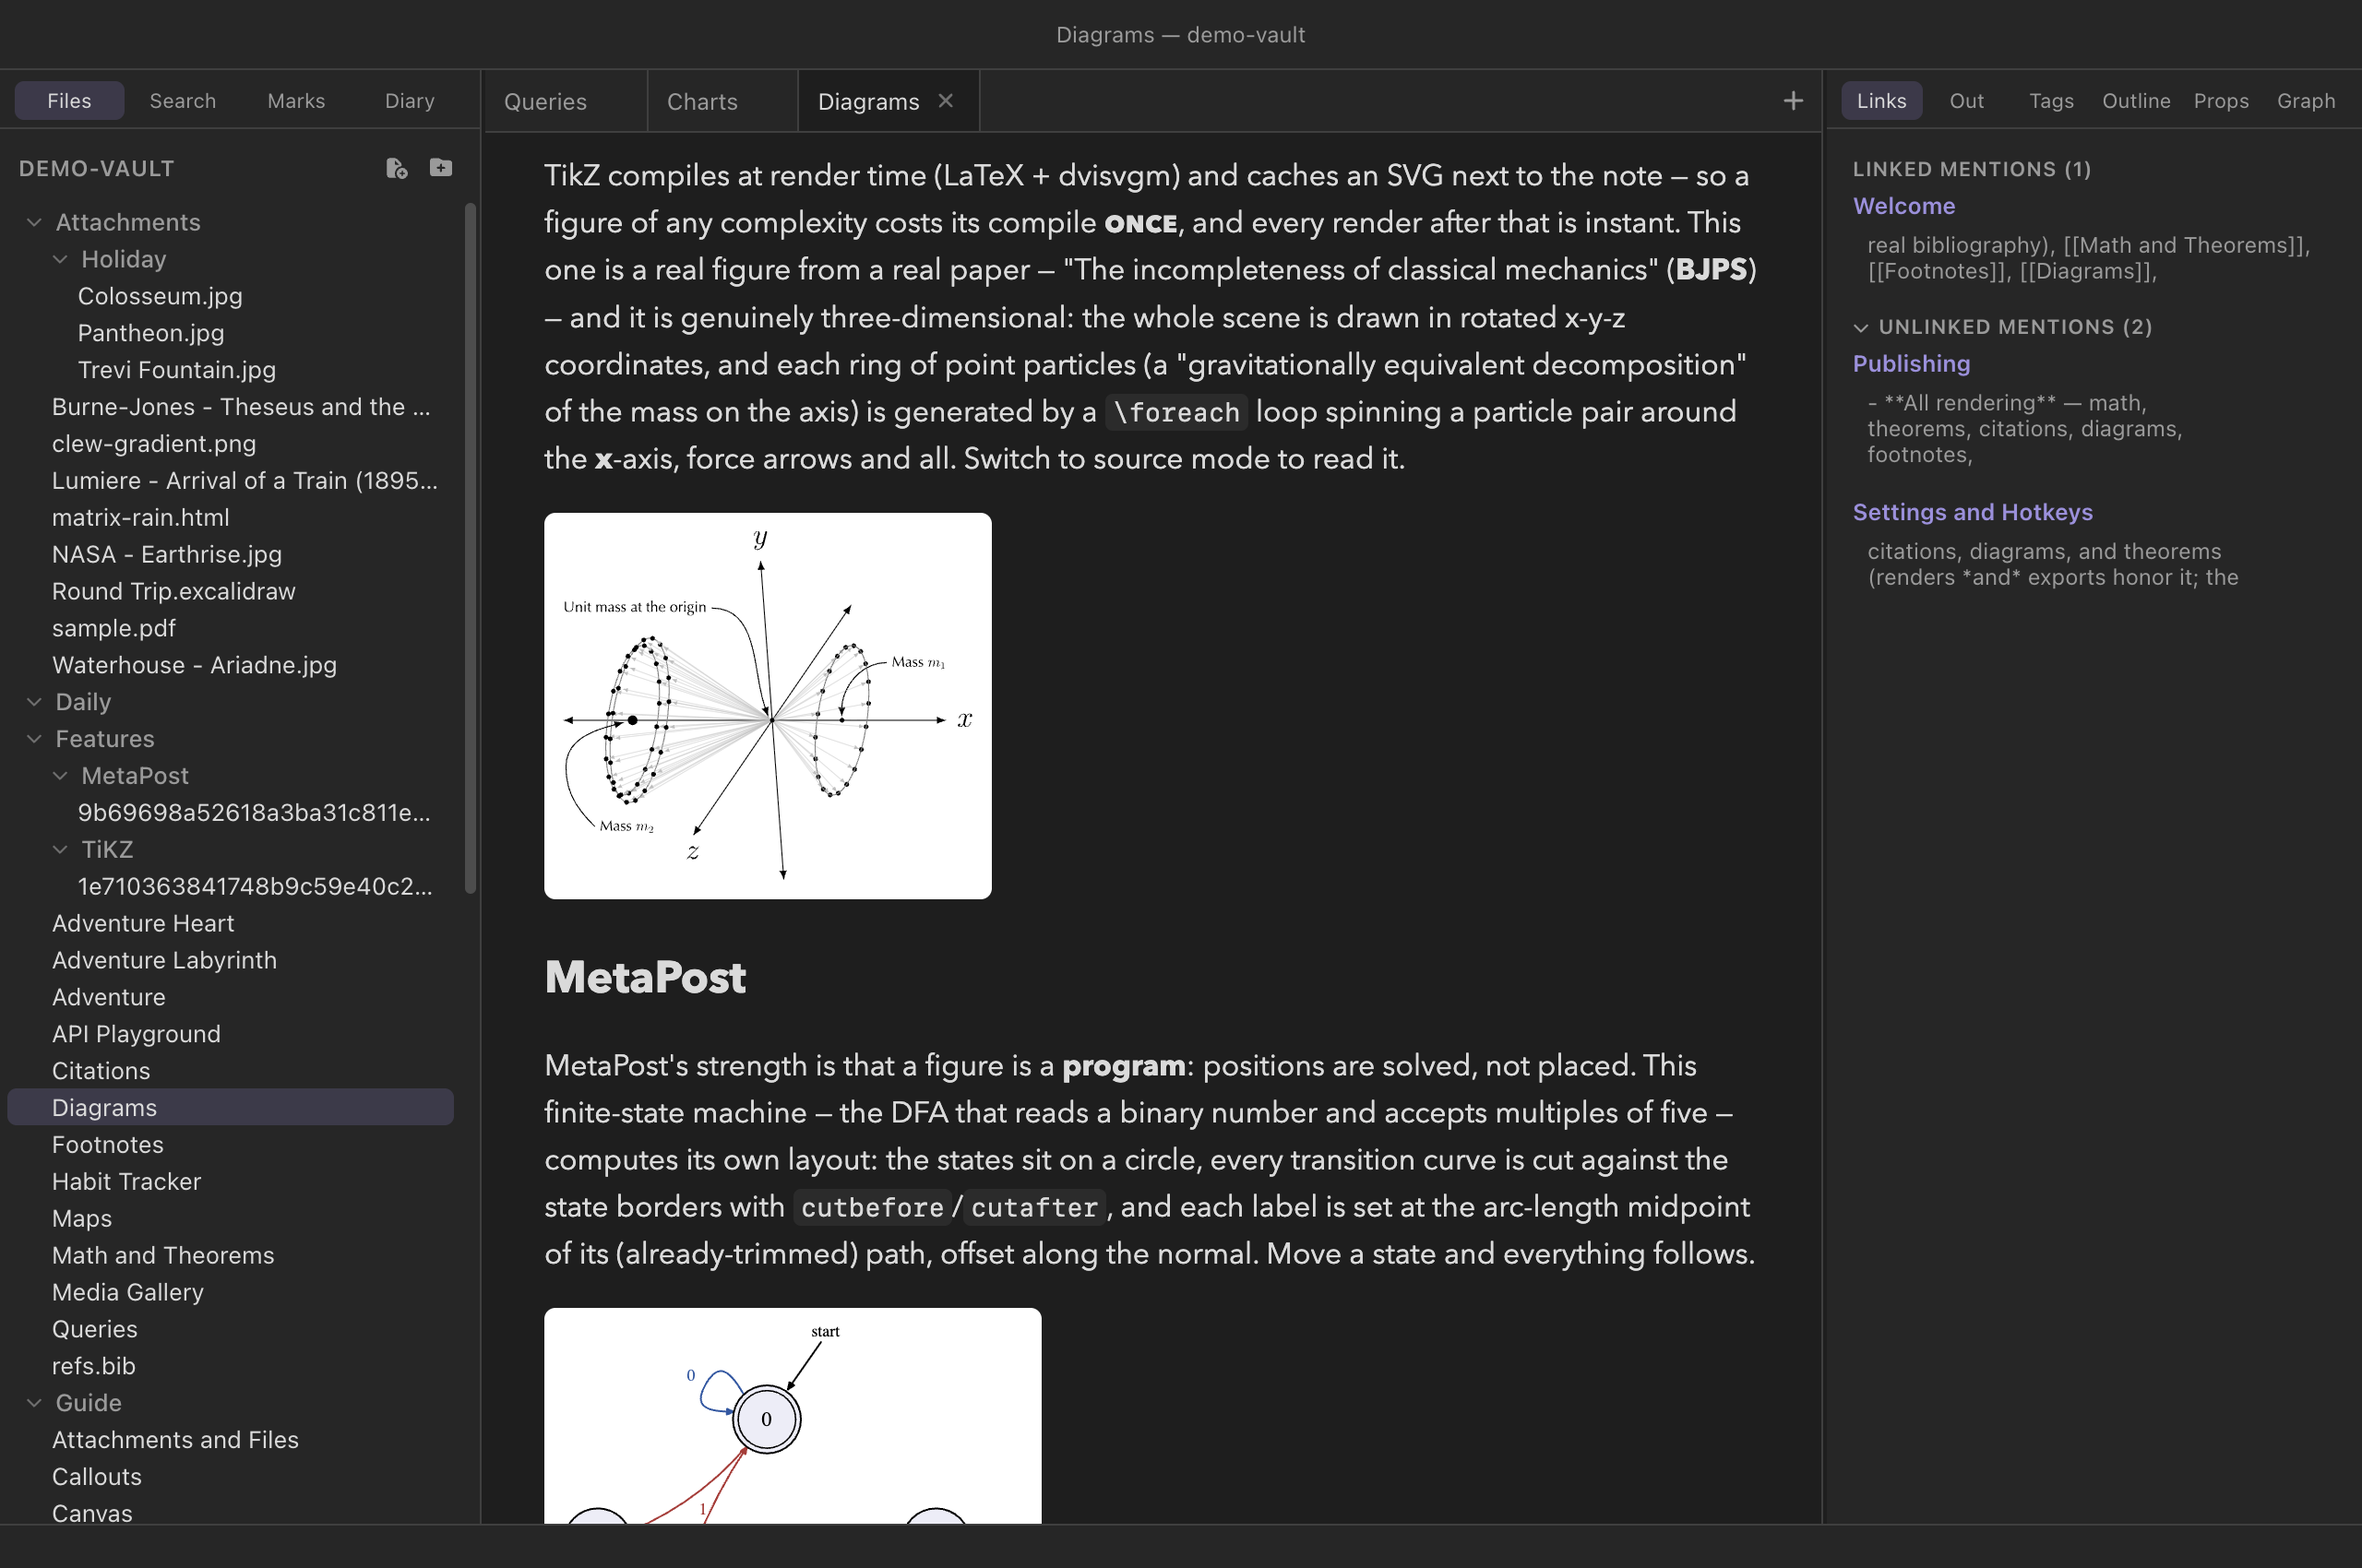
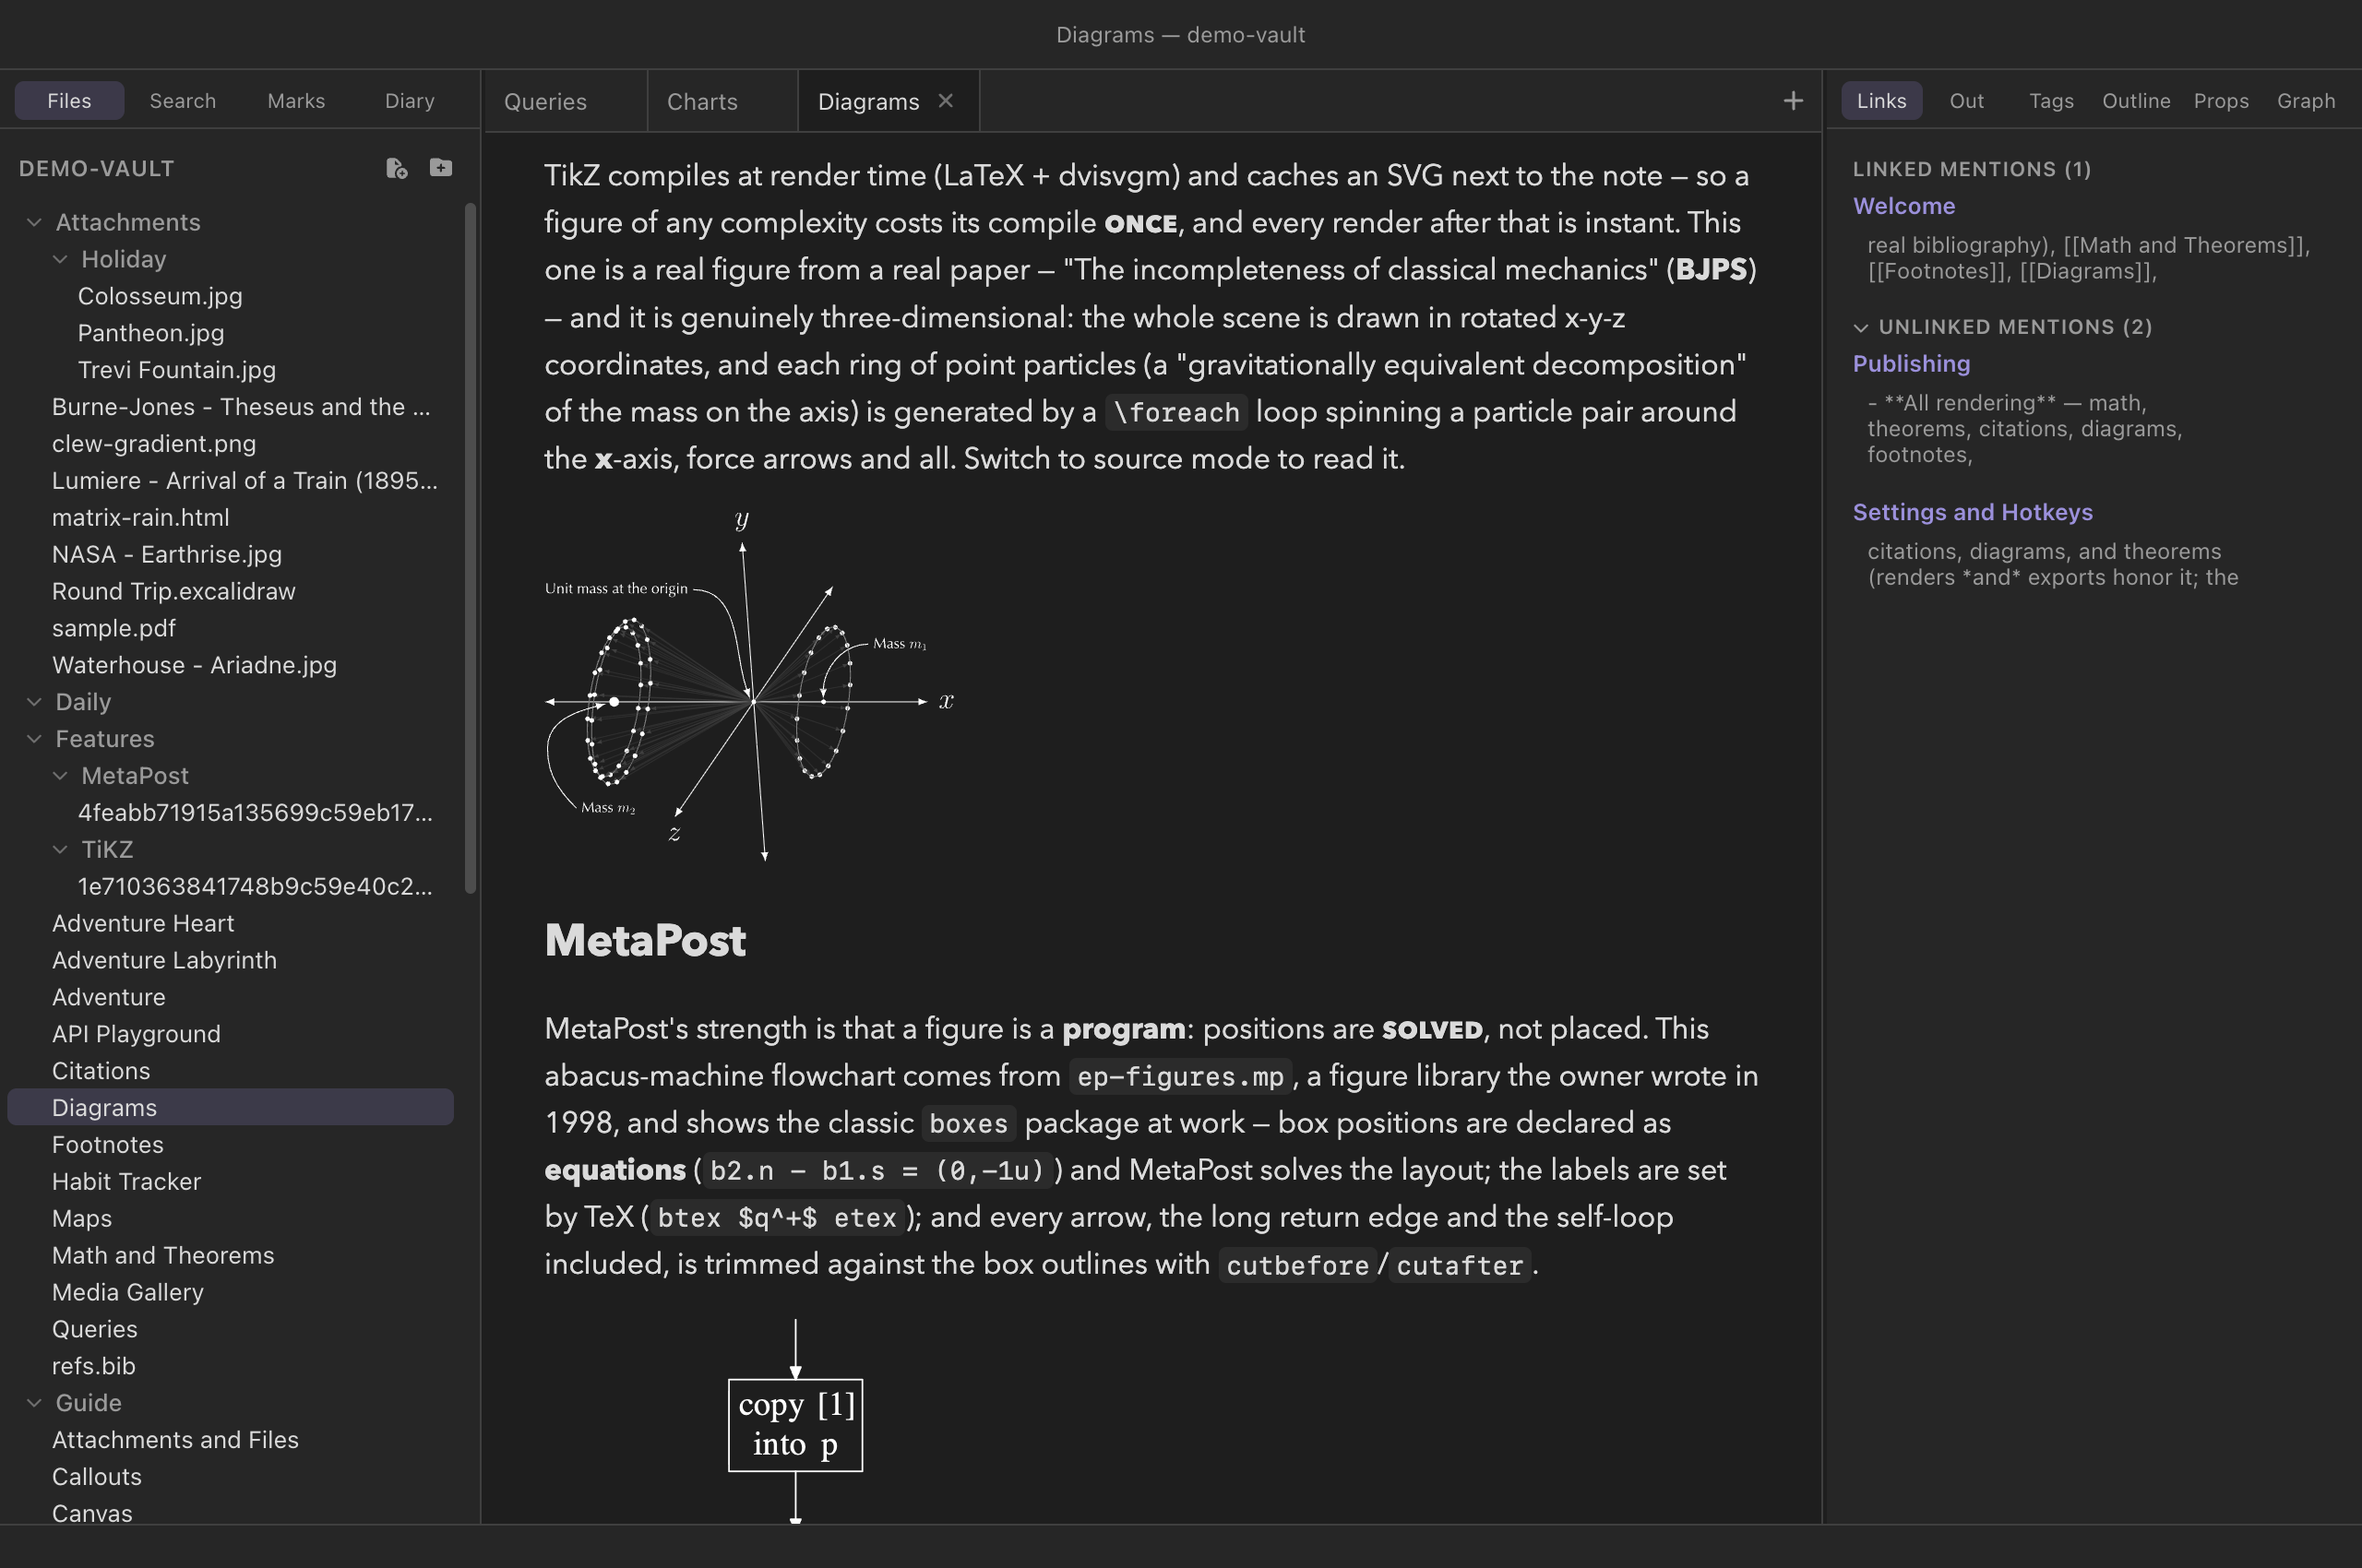
Manual: diagrams render as ink in both themes; abacus-machine screenshot

Changed region(s): [[0.2188, 0.3118, 0.75, 0.9976], [0.0312, 0.4988, 0.1875, 0.53]]

diff --git a/site/manual/diagrams.html b/site/manual/diagrams.html
@@ -49,7 +49,9 @@ catalogue — render instantly in the preview and follow the app's
 light and dark themes. TikZ and MetaPost figures go further: the note
 is handed to a real TeX toolchain on your machine, compiled, and the
 resulting vector graphic cached next to the note — publication-grade
-figures, living as plain text in a Markdown file.
+figures, living as plain text in a Markdown file. Compiled figures sit
+on the page like ink: black-on-transparent in the light theme, inverted
+to white-on-transparent in the dark one.
 </p>
 
 <h2 id="mermaid">Mermaid</h2>
@@ -130,13 +132,13 @@ dark page.
 </p>
 
 <figure class="shot">
-	<img src="images/diagrams.png" alt="The Diagrams feature note in reading mode: a three-dimensional TikZ figure from a physics paper — rings of point particles with force arrows converging on the origin — and below it a MetaPost finite-state machine">
+	<img src="images/diagrams.png" alt="The Diagrams feature note in reading mode: a three-dimensional TikZ figure from a physics paper — rings of point particles with force arrows converging on the origin — and below it a MetaPost abacus-machine flowchart">
 	<figcaption>The demo vault's Diagrams note: a genuinely
 	three-dimensional TikZ figure from a real physics paper — rings of
 	point particles spun around the axis by a loop, force arrows and all —
-	and a MetaPost finite-state machine that computes its own layout, both
-	compiled to SVG by the local TeX toolchain and cached beside the
-	note.</figcaption>
+	and a MetaPost abacus-machine flowchart whose layout MetaPost solves
+	from declared equations, both compiled to SVG by the local TeX
+	toolchain and cached beside the note.</figcaption>
 </figure>
 
 <h2 id="tikz">TikZ</h2>
